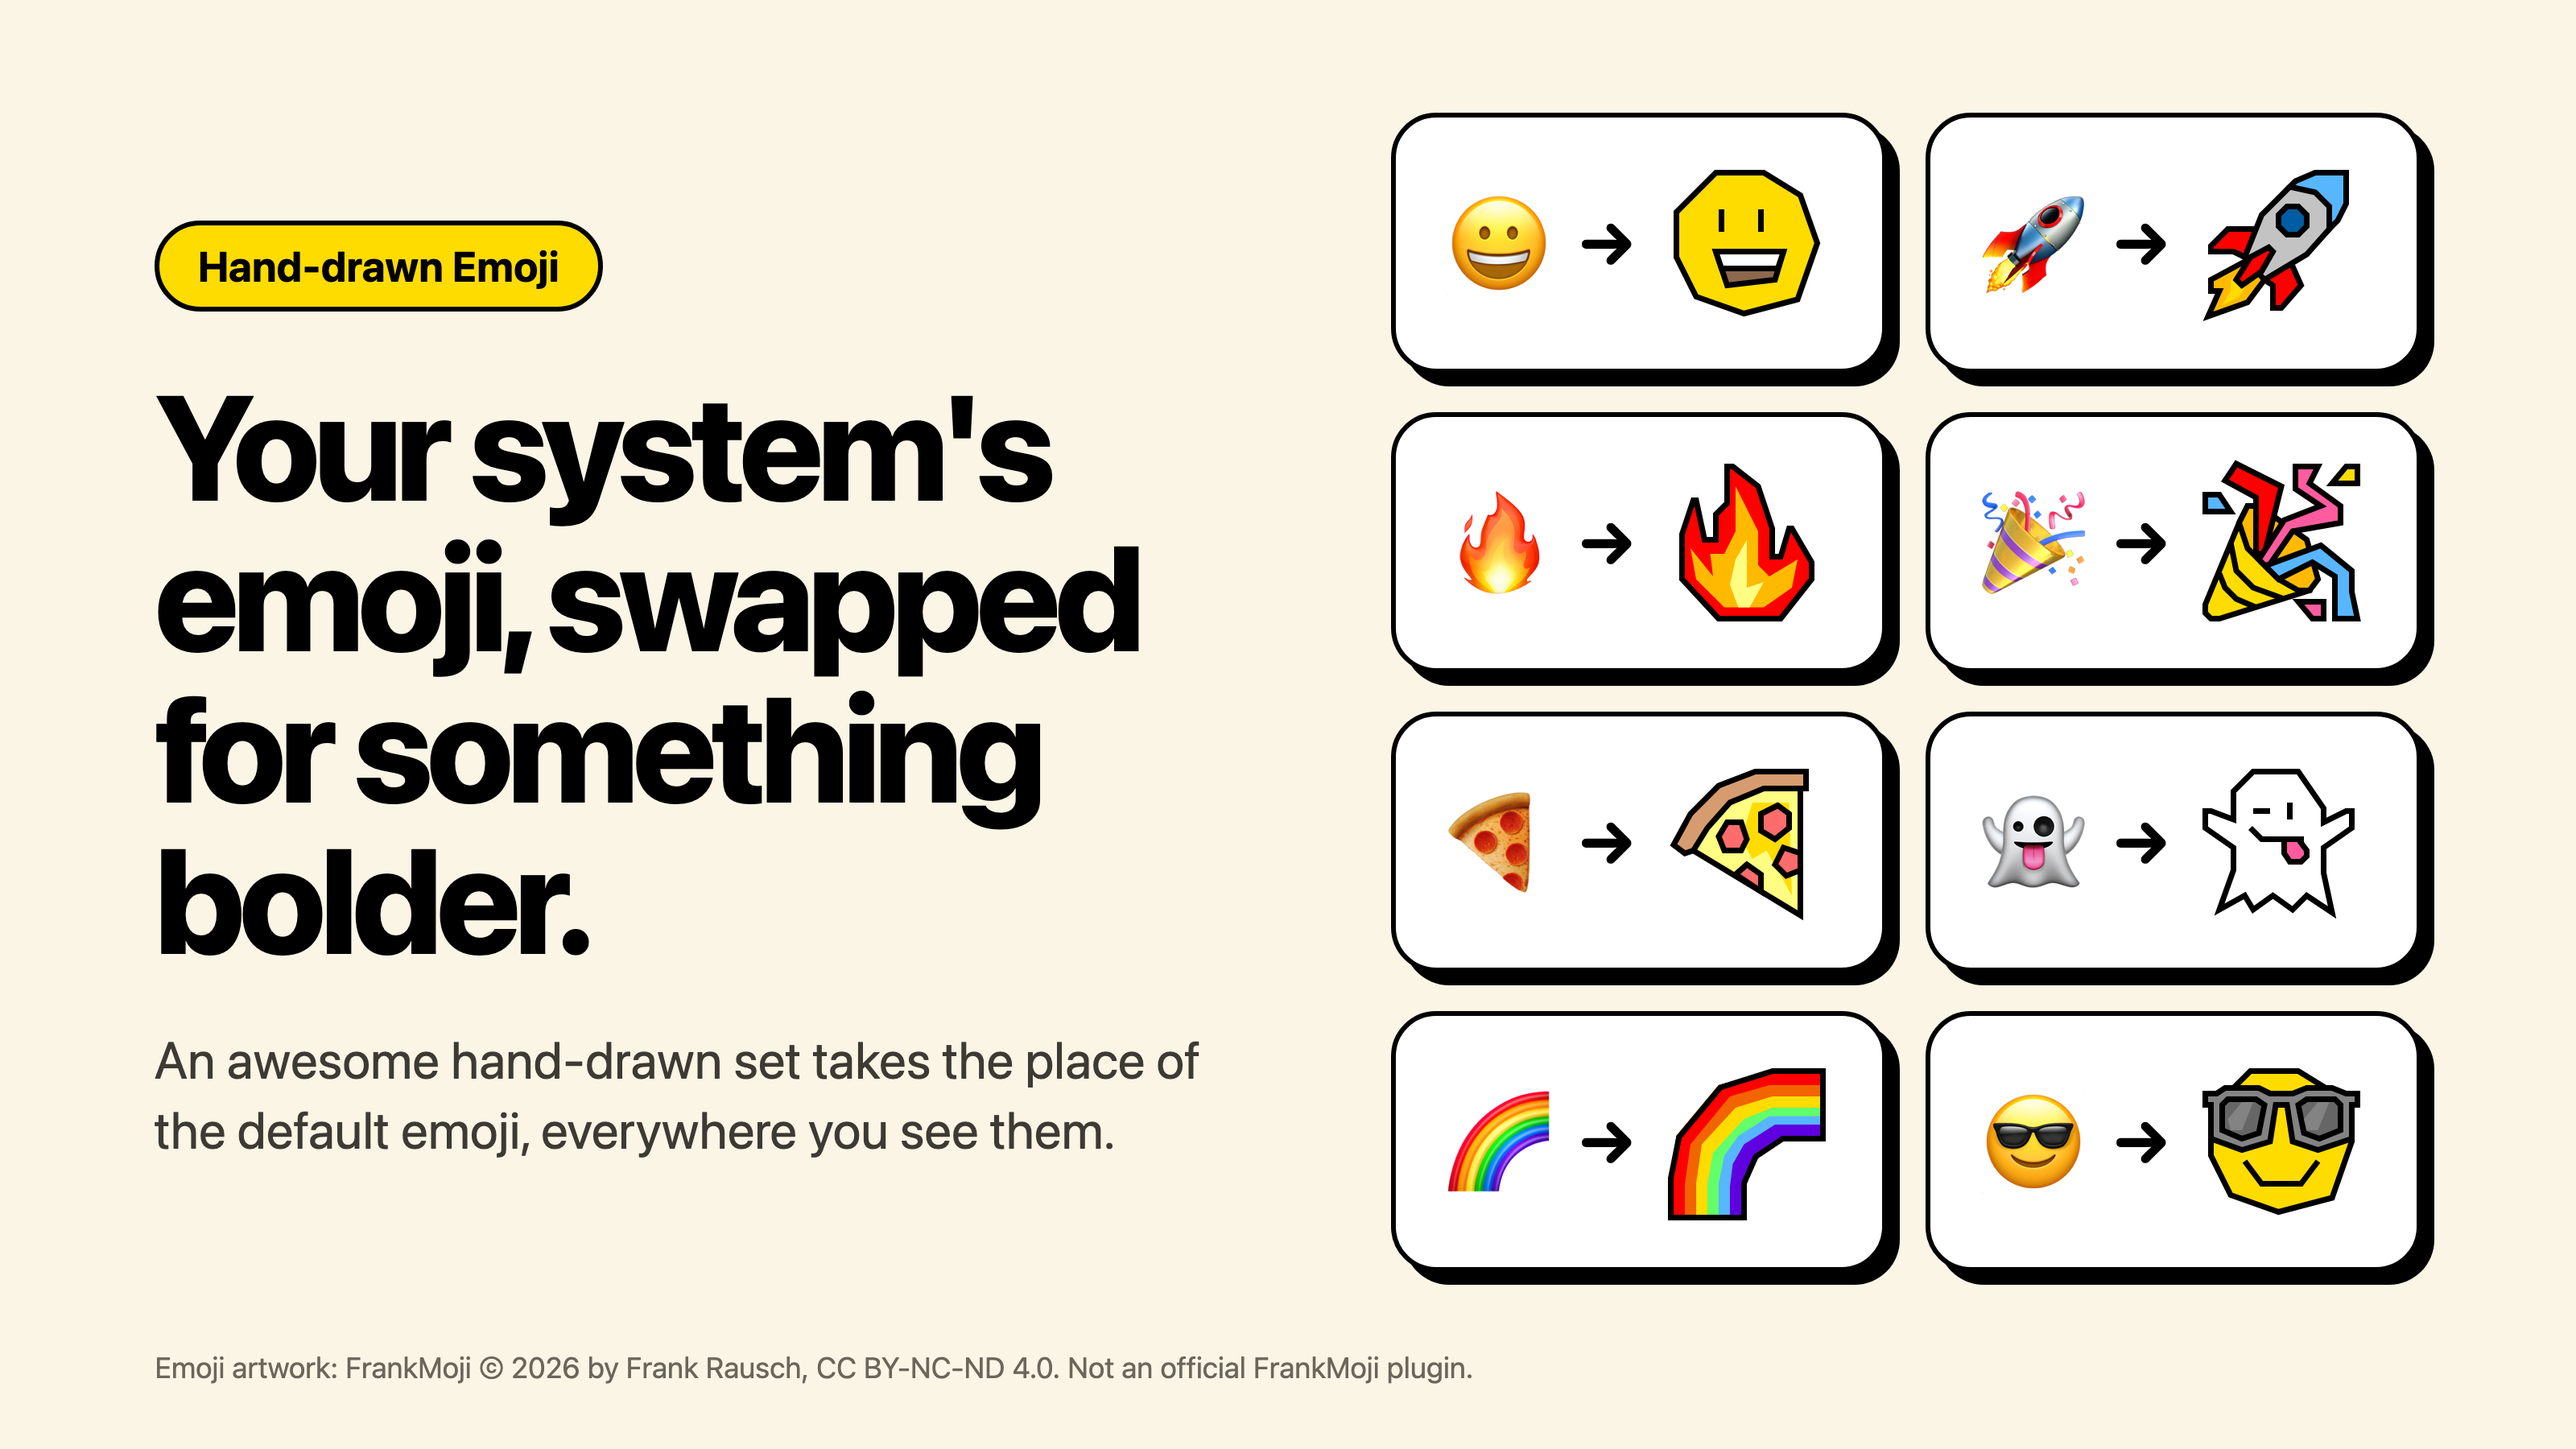
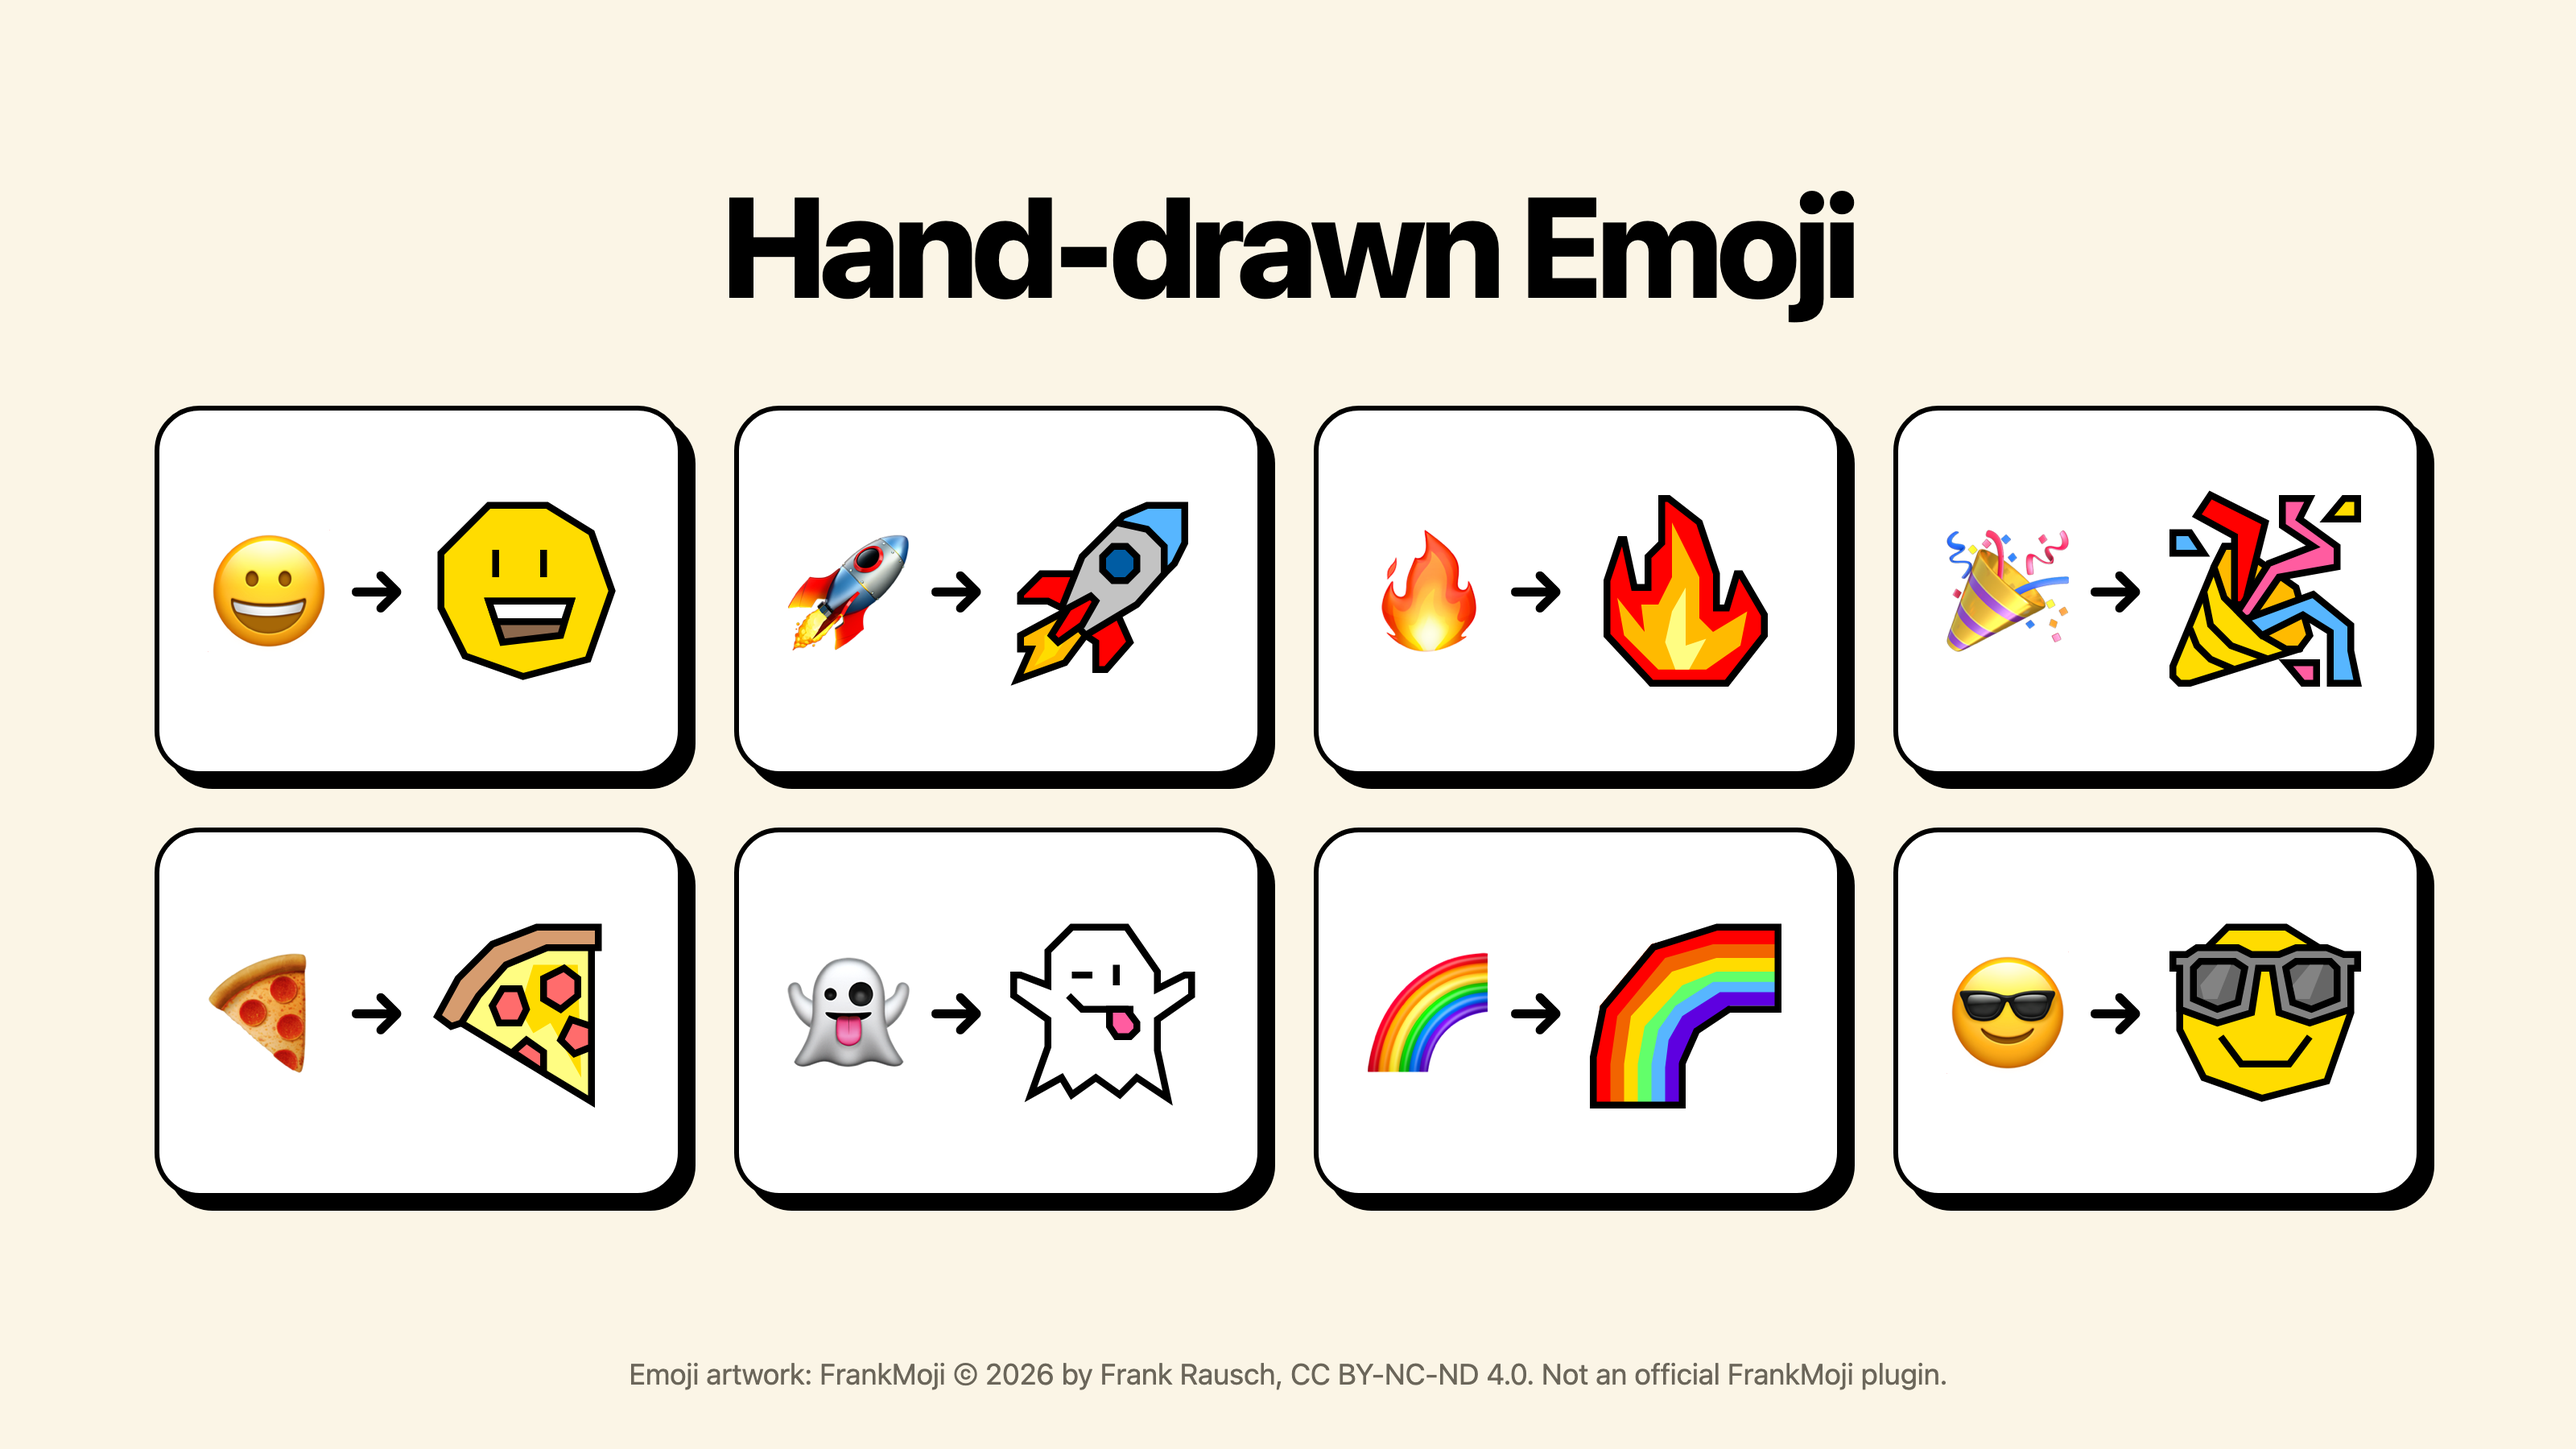
Cut the hero image down to the title and the comparisons

diff --git a/assets/hero.html b/assets/hero.html
@@ -14,31 +14,20 @@
     background: #fbf5e6;
     color: #000;
     font-family: -apple-system, BlinkMacSystemFont, "Helvetica Neue", sans-serif;
-    display: grid;
-    grid-template-columns: 1fr 640px;
-    gap: 72px;
-    align-items: center;
-    padding: 0 96px 40px;
-  }
-  .badge {
-    display: inline-block;
-    border: 3px solid #000;
-    border-radius: 999px;
-    background: #ffdc00;
-    padding: 10px 24px;
-    font-size: 26px;
-    font-weight: 700;
-    margin-bottom: 36px;
+    display: flex;
+    flex-direction: column;
+    justify-content: center;
+    padding: 0 96px 48px;
   }
   h1 {
-    font-size: 92px;
-    line-height: 1.02;
+    font-size: 88px;
+    line-height: 1;
     letter-spacing: -0.04em;
     font-weight: 800;
-    margin: 0 0 32px;
+    margin: 0 0 56px;
+    text-align: center;
   }
-  p { font-size: 32px; line-height: 1.35; margin: 0; color: #3d3a33; }
-  .swaps { display: grid; grid-template-columns: 1fr 1fr; gap: 24px; }
+  .swaps { display: grid; grid-template-columns: repeat(4, 1fr); gap: 32px; }
   .swap {
     display: flex;
     align-items: center;
@@ -46,27 +35,25 @@
     background: #fff;
     border: 3px solid #000;
     border-radius: 28px;
-    padding: 22px 28px;
+    padding: 44px 26px;
     box-shadow: 8px 8px 0 #000;
   }
-  .swap .old { font-size: 64px; line-height: 1; width: 72px; text-align: center; }
+  .swap .old { font-size: 76px; line-height: 1; width: 84px; text-align: center; }
   .swap .arrow { font-size: 40px; font-weight: 800; }
-  .swap img { width: 112px; height: 112px; }
+  .swap img { width: 136px; height: 136px; }
   .credit {
     position: absolute;
-    left: 96px;
-    bottom: 40px;
+    left: 0;
+    right: 0;
+    bottom: 36px;
+    text-align: center;
     font-size: 18px;
     color: #6b665a;
   }
 </style>
 </head>
 <body>
-  <div>
-    <div class="badge">Hand-drawn Emoji</div>
-    <h1>Your system's emoji, swapped for something bolder.</h1>
-    <p>An awesome hand-drawn set takes the place of the default emoji, everywhere you see them.</p>
-  </div>
+  <h1>Hand-drawn Emoji</h1>
   <div class="swaps">
     <div class="swap"><span class="old">😀</span><span class="arrow">→</span><img src="../emoji/grinning-face.svg" alt=""></div>
     <div class="swap"><span class="old">🚀</span><span class="arrow">→</span><img src="../emoji/rocket.svg" alt=""></div>

diff --git a/README.md b/README.md
@@ -1,6 +1,6 @@
 # Hand-drawn Emoji
 
-![Your system's emoji, swapped for something bolder. Eight standard emoji shown next to their hand-drawn replacements.](assets/hero.png)
+![Hand-drawn Emoji: eight standard emoji shown next to their hand-drawn replacements.](assets/hero.png)
 
 An Obsidian plugin that replaces standard emoji with a bold, hand-drawn set. It
 works in your notes (reading view, Live Preview, and source mode) and across
